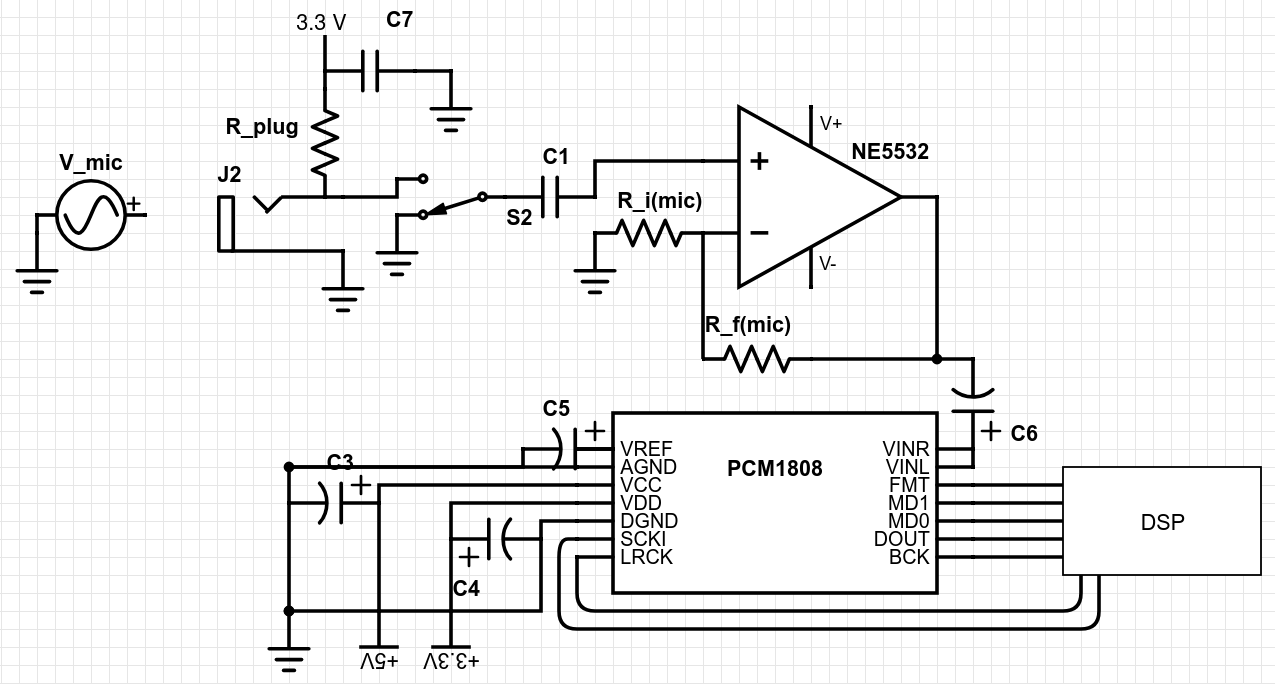
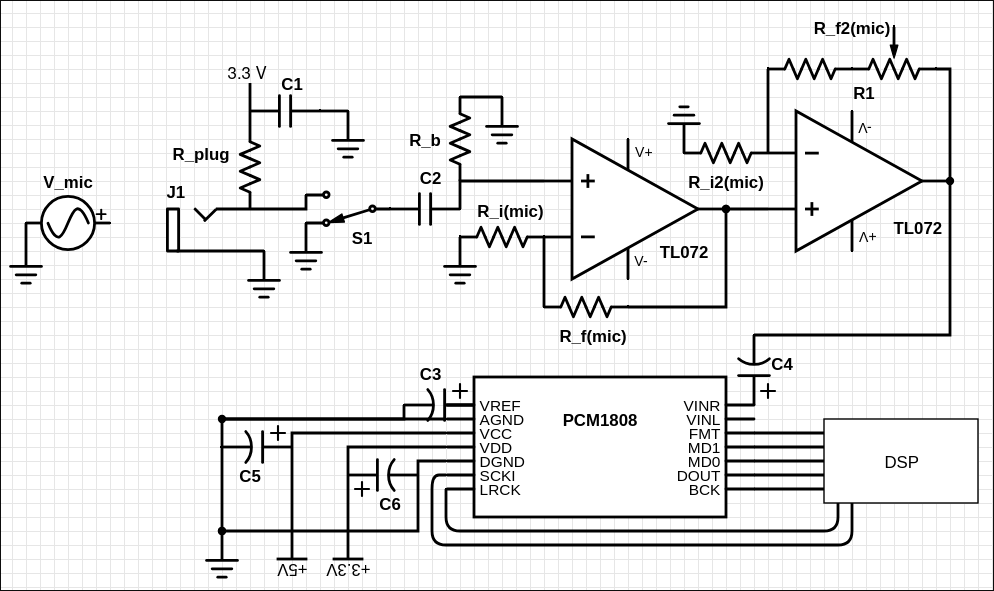
finish deciding component values

Changed region(s): [[0.0, 0.0, 1.0, 1.0], [0.5614, 0.6701, 0.6549, 0.731]]

diff --git a/README.md b/README.md
@@ -1,10 +1,10 @@
 # hardware-autotune
 
-I'm re-creating the autotune effect using digital circuits. When complete, I plan to have a device that can connect to a microphone, and includes an onboard speaker with the option to connect a separate speaker instead. The user will speak into the microphone, the circuit I made with HDL is gonna apply autotune, and then the result will playback on the speaker.
+I'm re-creating the autotune effect using digital circuits. When complete, I plan to have a device that can connect to a microphone, and includes an onboard speaker with the option to connect earphones/headphones instead. The user will speak into the microphone, the circuit I made with HDL is gonna apply autotune, and then the result will playback on the speaker.
 
 ## Analog Circuit Design
 
-This section will cover the design of the recording and playback analog circuits. I specifically left component values unknown as I they depend on certain specifications that I haven't decided yet.
+This section will cover the design of the recording and playback analog circuits. I specifically left component values unknown as I they depend on certain specifications that I haven't decided yet. UPDATE: the previous sentence is no longer true.
 
 For info on the digital implementations of autotune and other effects, see the following links:
 
@@ -14,12 +14,12 @@ For info on the digital implementations of autotune and other effects, see the f
 
 ![Recording Circuit Diagram](./docs/assets/recording_circuit.png)
 
-Above is the circuit diagram detailing how microphone input will be processed before reaching the ADC, and then the DSP. Assume all connections to the DSP have $100 \omega$ resistors.
+Above is the circuit diagram detailing how microphone input will be processed before reaching the ADC, and then the DSP. Assume all connections to the DSP have $100 \Omega$ resistors.
 
 1. We start at the voltage source labelled $V_{mic}$, this represents the microphone which converts your voice into an AC waveform with a very small amplitude. Microphones typically require a small amount of plug in power, so we connect the microphone to our $3.3 V$ source, with a resistor to limit current, and a capacitor to shunt noise to GND. J1 is a headphones jack that will close this circuit.
 2. Switch $S_1$ acts as an on/off switch for accepting microphone input. When in the downwards OFF position, the ADC should receive a constant $0 V$. In the upwards ON position, it should allow our microphone signal to pass to the next stage.
 3. Because the DC plug in power is on the same line as the AC output, we place a capacitor $C_2$ to recenter our AC waveform at $0 V$. 
-4. Here we pass our microphone signal through a non-inverting amplifier circuit to get it to the ADC's desired amplitude.
+4. Here we pass our microphone signal through a non-inverting amplifier circuit to get it to the ADC's desired amplitude. We require two amplifiers in case a large gain needs to be applied. Luckily, the TL072 chip has two amplifiers built in.
 5. Now, our signal is ready to pass through the ADC and be processed by the DSP. The ADC was wired up according to the [datasheet](docs/pcm1808.pdf) under the section "Application and Implementation".
 
 Component Values:
@@ -29,12 +29,20 @@ Component Values:
 - $C_1$: $10 \mu\text{F}$ Aluminum Electrolytic
 - $C_2$: $10 \mu\text{F}$ Aluminum Electrolytic
 - $R_b$: $10 k\Omega$
-- $R_{i(mic)}$: 
-- $R_{f(mic)}$:
+- $R_{i(mic)}$: $2.4 k\Omega$
+- $R_{f(mic)}$: $10 k\Omega$
+- $R_{i2(mic)}$: $2.4 k\Omega$ 
+- $R_{f2(mic)}$: $8.2 k\Omega - 18.2 k\Omega$
 - $C_3$: $0.1 \mu\text{F}$ Ceramic, $10 \mu\text{F}$ Aluminum Electrolytic
 - $C_4$: $1 \mu\text{F}$ Aluminum Electrolytic
 - $C_5$: $0.1 \mu\text{F}$ Ceramic, $10 \mu\text{F}$ Aluminum Electrolytic
 - $C_6$: $0.1 \mu\text{F}$ Ceramic, $10 \mu\text{F}$ Aluminum Electrolytic
+
+How I landed on the amplifier resistor values:
+
+I found out that microphones that plug into a 3.50 mm jack typically output a maximum signal amplitude of $50 mV$-$100 mv$. Knowing from the [ADC's datasheet](docs/pcm1808.pdf) that the input voltage must be $3 V_{pp}$ at the most, I calculated the minimum gain for a single stage if the mic were outputting the largest amplitude. Then, I simply picked resistor values that would get me a good bit under that gain if the variable resistor were set to $0 \Omega$, and a good bit above if set to $10 k\Omega$.
+
+I did calculations to land on many of the other component values, but they're honestly not that interesting.
 
 Important:
 
@@ -44,7 +52,7 @@ Important:
 
 ![Playback Circuit Diagram](./docs/assets/playback_circuit.png)
 
-Above is the circuit diagram detailing how our DSP's digital output will be processed in order to be played on analog speakers. Assume all connections to the DSP have $100 \omega$ resistors.
+Above is the circuit diagram detailing how our DSP's digital output will be processed in order to be played on analog speakers. Assume all connections to the DSP have $100 \Omega$ resistors.
 
 1. The DSP feeds digital input data representing our audio into the DAC, which converts it into an analog waveform. I specifically left $H_{out}R$ disconnected because we're dealing with mono sound. The DAC was wired up according to the [datasheet](docs/sles011e.pdf) under the section "Application Information".
 2. At the DAC output, our signal is going to be $1.24 V_{pp}$ centered at $0.62 V$, we send our signal through a capacitor to recenter it at $0 V$. Also, we use an RC high-pass filter to attenuate the high frequency switching noise.
@@ -56,7 +64,7 @@ Component Values:
 
 - Amplifier supply: $+5 V$ and $-5 V$
 - $R_{i(sp)}$: $3.3 k\Omega$
-- $R_{f(sp)}$: $10 k\Omega$
+- $R_{f(sp)}$: $5 k\Omega - 15 k\Omega$ (Adjustable)
 - $V_{DD}$: $+5 V$
 - $V_{SS}$: $-5 V$
 - $C_1$: $10 \mu\text{F}$ Aluminum Electrolytic
@@ -66,17 +74,21 @@ Component Values:
 - $R_g$: $100 \Omega$
 - $R_s$: $0.47 \Omega$, $1 W$
 
+I followed a similar process to the recording circuit to land on the amplifier resistors' values in this circuit, as well as for other values.
+
 Important: 
 
 - $C_3$ MUST be placed as close as humanly possible to the $V_{cc}$ and $V_{HP}$ pins. Yes that means two capacitors. Same goes for $C_1$.
 - Both $R_g$ MUST be placed as close to the gate of the respective MOSFET as possible.
 
-## Components
+## Part Sources
 
-TBD
+WIP
 
-## Plans for future
+## Ideas for the Future
 
 **May 26, 2026:** I'm considering adding more effects than just autotune, and enabling profile creation too. My friend also gave me a pretty good idea of printing this using TinyTapeout, it'd be sick to have my very own ASIC that I designed all on my own. 
 
 **May 27, 2026:** I feel like its useful for a project like this to have options for input/output. My plan is to use a 3.5mm audio jack for the mic input, and another 3.5mm audio jack directly after the DAC so that active speakers (like the ones in headphones) can hear the audio. The onboard 8-ohm passive speaker will still be there as it gives me a reason to design my own audio amp.
+
+**June 8, 2026:** It might be useful to make certain resistors (like feedback ones for amplifiers) adjustable so that I can calibrate the device on the fly. With them I could adjust volume, and also separate different frequency bands using filters and apply individual gains to them (I think this is what an equalizer does).
